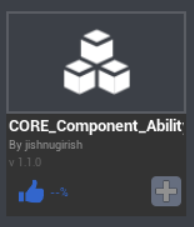
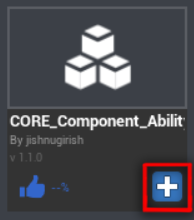
Changed Ability Tutorial from Sprint to Dodge Roll
Finished updating the ability tutorial, and changed it completely from making a sprint ability to making a dodge roll ability. Now there are far fewer steps, and hardly any complexity. A more advanced ability tutorial could be made that uses different actions in each phase. Moved around the section on Ability Objects, and might integrate a second half of the tutorial that teaches how to make the  same ability using an Ability Object instead.

Former-commit-id: 4279c567804b7574d35f342164048ed6424b127e

diff --git a/docs/tutorials/gameplay/abilities.md b/docs/tutorials/gameplay/abilities.md
@@ -9,7 +9,7 @@ An ability could be to sprint, a dance emote, the opening of a hidden menu; an a
 !!! info
     Comparing with Unreal and other game engines, an ability is basically a fancier keyboard input. "Fancier" because it has events built-in that can be set at each phase of execution.
 
-*Need a photo here*
+![Dodge Roll](/src/img/EditorManual/Abilities/dodgeRoll.GIF)
 
 ### The 4 Phases of an Ability
 
@@ -38,11 +38,11 @@ The 4 different phases of an ability are:
     Recovery: Out of breath from the power, the witch lowers her arm.  
     Cooldown: The witch waits for her magic powers to return to her.  
 
-Once an ability is triggered to start, it cycles through Cast > Execute > Recovery > Cooldown. The amount of time that each phase lasts can be set in the code. These timings would be very different depending on the type of ability being created.
+Once an ability is triggered to start, it cycles through **Cast** > **Execute** > **Recovery** > **Cooldown**. The amount of time that each phase lasts can be set in the code. These timings would be very different depending on the type of ability being created.
 
-![Gabe's Graphic](/src/img/EditorManual/Abilities/Ability States.png)
+![Ability States](/src/img/EditorManual/Abilities/Ability States.png)
 
-To tie functionality to the different phases of an ability, Core uses Events. Each phase has an event that is activated at the very beginning of that phase. 
+To tie functionality to the different phases of an ability, Core uses **Events**. Each phase has an event that is activated at the very beginning of that phase. 
 
 A created function can be connected to these events, using `:Connect(ability_name)` within a script.
 
@@ -51,44 +51,36 @@ Connecting functions to events in an ability is the main task to be done when cr
 !!! info "Customize Your Ability"
     A magical spell might have a long cast time, whereas a punch would have a very short if not instant cast time.
 
-
-### The Ability Object
-
-There are all sorts of fun settings for you to customize in an ability. While some of this is handled in code, many of the options--also known as parameters--can be changed from within one object that is kept in your project hierarchy.
-
-This can basically be thought of as a data structure, and generally a way to keep track of how the ability works. It contains all the main parameters that you might use for an ability, enabling you to make fast changes to how your ability works without having to open the scripts to go through code and change variables.
-
-To create an Ability object, navigate to the menu tab Object and select Create Ability.
-
-This spawns a single ability object in your project Hierarchy. On its own, it doesn't do anything--but that leads us into the tutorial!
-
-
 ## Tutorial
 
 Adding an ability to a game does take a little bit of coding. It's easier than you might think!
 
-While most all of the coding is already done for you to cause an ability to happen, this code needs to be copied into your project so that you can make whatever custom changes you would like!
+While most all of the coding is already done for you to cause an ability to happen, this code needs to be copied into your project so that you can make whatever custom changes you would like.
 
-In this tutorial, we will be making a simple sprint ability that will use all 4 phases, but is very quick to create.
+In this tutorial, we are going to make a super simple dodge roll!
 
 ### Generating the Script
 
 1. With Core open to a project, click on View > Script Generator in the top menu bar to open the **Script Generator**.
 
-2. The default selected should already be Ability, but if it is not, select Ability from the drop-down menu on the top right. You should see this fancy window:  
+2. The default selected script type should already be Ability, but if it is not, select Ability from the drop-down menu on the top left. You should see this fancy window:  
  ![Script Generator](/src/img/EditorManual/Abilities/scriptGenerator.PNG)
 
 3. We’re going to change some of the options at the top of this window.
-    1. Change the **Ability Name** in the first box to ‘Sprint’. Notice how all the code in the window updates to say ‘Sprint’ instead of ‘MyAbility’.
+    1. Change the **Ability Name** in the first box to ‘Dodge’. Notice how all the code in the window updates to say ‘Dodge’ instead of ‘MyAbility’.
 
     2. The **Input Binding** is which button this ability is tied to. This works on both keyboards and game controllers! In this case, change the drop-down menu to "`ability_feet`".  
      For keyboards, this is the **shift** key.
 
-    3. When making a simple running sprint, we don’t need to change the animation, but an animation can be chosen to play when an ability is executed.
+    3. There is an animation already built-in for the player to dodge roll. Set the **Anim Names** drop-down menu to "`unarmed_roll`"
 
-    4. We’re going to make a fancy sprint that uses all 4 phases, but we still won’t need **On Interrupted** or **On Ready** for this case. Uncheck those boxes.  
+    4. Since we're making a simple dodge roll ability, we won’t need **On Interrupted** or **On Ready** for this case. Uncheck those boxes.  
 
-         On Interrupted determines what happens when an ability is interupted by something in-game, and On Ready determines what happens when the ability finishes the cooldown phase and is ready to be activated again.
+         On Interrupted determines what happens when an ability is interupted by something in-game, and On Ready determines what happens when the ability finishes the cooldown phase and is ready to be activated again.  
+
+         **Your Script generator should now look like this:**
+
+         ![Script Generator Set-UP](/src/img/EditorManual/Abilities/scriptGeneratorCorrect.PNG)
 
 4. Click the button **Create New Script** to create a new script with all of this code. Name the script `AbilityScript`.
 
@@ -97,15 +89,9 @@ In this tutorial, we will be making a simple sprint ability that will use all 4 
 
 ### Customizing the Code
 
-1. Now we make our changes, but first is removing unneeded parts!
+1. Now we make our changes, but first is **removing unneeded parts**!
 
-    1. Since we aren’t using an animation, the first thing we want to change is to remove the line that says ‘`ability.animation = “1hand_melee_slash_left”`’.
-
-
-    2. To allow the player to always sprint when they activate this ability, we must change `ability.canBePrevented` to false.
-
-
-    3. Towards the bottom, within `OnExecute_Sprint(ability)`, remove all these lines relating to `target_data`, as we won’t need this for sprinting:  
+    2. Towards the bottom, within `OnExecute_Dodge(ability)`, remove all these lines relating to `target_data`, as we won’t need this for dodging:  
     ```python
     -- if requires_target_data is set on phase, can access target_data 
 	-- for properties in target_data, see comment block below
@@ -113,68 +99,71 @@ In this tutorial, we will be making a simple sprint ability that will use all 4 
     ```  
      This is how to access the hit or contacted object when creating an ability that affects the world or other players.
 
+    3. To allow the player to always be able to dodge roll when they activate this ability, we must change `ability.canBePrevented` to false.
 
-2. Now we have removed unnecessary parts of the code, and we need to change what happens in the functions at the bottom. These are what happens in each phase.
+    4. Since the dodge roll animation itself handles all movement, we don't need any code happening in the `OnCast_Dodge(ability)`, `OnExecute_Dodge(ability)`, `OnRecovery_Dodge(ability)`, or `OnCooldown_Dodge(ability)` functions.  
 
-    1. Add the line ‘`ability.owner.walkSpeed = .5`’ to the OnCast_Sprint function. This will lower the speed of the player in the time before they start sprinting, to simulate building up energy.
+        You can remove all print statements from within these functions, or comment them out using `--`. Leaving these in can be helpful for seeing on-screen which phase you are in while the ability is active.
 
-    2. Add the line ‘`ability.owner.walkSpeed = 4`’ to the OnExecute_Sprint function. This will speed them up massively.
-
-    3. Add the line ‘`ability.owner.walkSpeed = .5`’ to the OnRecovery_Sprint function. This simulates the player “catching their breath” after the run.
-
-    4. Add the line ‘`ability.owner.walkSpeed = 1`’ to the OnCooldown_Sprint function to reset player speed back to normal.
-
-    5. The functions for each phase come with a `print_to_screen` line for game testing and debugging purposes, and they can be useful to tell which ability phase is happening at that moment, but feel free to remove them!
-
-3. To change how long each phase lasts, change the durations to this:  
+2. To **change how long each phase lasts**, change the durations to this:  
 ```
-ability.castPhaseSettings.duration = .7
-ability.executePhaseSettings.duration = 3
-ability.recoveryPhaseSettings.duration = 1
-ability.cooldownPhaseSettings.duration = 2
+ability.castPhaseSettings.duration = .1
+ability.executePhaseSettings.duration = 1
+ability.recoveryPhaseSettings.duration = .1
+ability.cooldownPhaseSettings.duration = 3
 ```
 
-4. We have nearly everything set up now--the only thing left is to actually assign the ability to a player.  
- There are many ways to do this (granting a new ability when an item is picked up) but in this case, we are going to give the player the ability as soon as the game starts so that they always have it.  
-  Beneath all code in this ability script so far, add this line:  
- `game.playerJoinedEvent:Connect(CreateAndGiveToPlayer_Sprint)`  
-  This will connect the function that we made to the moment when a player joins the game, giving them the ability to sprint!
+3. We have nearly everything set up now--the only thing left is to actually **assign the ability to a player**.  
 
-5. Make sure this new script is dragged into the Hierarchy, and hit play! Test out that crazy running speed.  
+    There are many ways to do this *(such as granting a new ability when an item is picked up)* but in this case, we are going to give the player the ability as soon as the game starts so that they always have it.  
+
+    Beneath all code in this ability script so far, add this line:  
+
+    `game.playerJoinedEvent:Connect(CreateAndGiveToPlayer_Dodge)`  
+
+    This will connect the function that we made to the moment when a player joins the game, giving them the ability to dodge roll!
+
+4. Make sure this **new script is dragged into the Hierarchy**, and hit play! Test out that mad rollin' action.  
  Remember that the **shift** key is what activates this ability since it uses the `ability_feet` input binding.
 
-This works great, but using print statements to tell which phase is active isn’t helpful. Luckily there is a UI element built exactly for abilities!
+This works great, but using print statements to tell which phase is active isn’t great game design. Luckily there is a UI element we can use built exactly for abilities!
 
-### UI Ability Control
+### CORE Component: Ability Display
 
 A crucial part of a video game is the feedback it gives--players need to know that they're using an ability.
 
-While you can make a User Interface element yourself, there is a pre-made template on Community Content that we can use to very quickly set up simple UI for our new ability!
+While you can make a User Interface *(often abbreviated to UI)* element yourself, there is a pre-made template on Community Content that we can use to very quickly set up simple UI for our new ability!
 
 When the ability is in the Cooldown phase, it will darken the ability button and show the seconds remaining until the ability is usable again.
 
-![Ability Control](/src/img/EditorManual/Abilities/Sprint_NotActivated.PNG) ![Ability Control](/src/img/EditorManual/Abilities/Sprint_Activated.PNG)
+![Ability Display](/src/img/EditorManual/Abilities/abilityDisplay.GIF)
 
 To get this to work correctly with the ability we made above, there are only a few steps steps:
 
-1. In Community Content, search for the **CORE_Component_AbilityDisplay** template by jishnugirish, and add this to your project by clicking the plus icon.  
+1. In Community Content, search for the **CORE_Component_AbilityDisplay** template by jishnugirish, and add this to your project by clicking the blue plus icon.  
   ![Ability Control](/src/img/EditorManual/Abilities/CORE_Component_Ability.PNG)
 
-2. Navigate through your **Project Content** to the **Imported Content** section, and drag the **white** component called **CORE_Component_AbilityBindingDisplay** into your Hierarchy.  
+2. Navigate through your **Project Content** to the **Imported Content** section, and drag the **green** component called **CORE_Component_AbilityBindingDisplay** into your Hierarchy.  
 
 3. If you now click this template from in the hierarchy, the **Properties** tab will show a few custom properties that we need to change to set up the ability display.
   ![Ability Control](/src/img/EditorManual/Abilities/AbilityButtonProperties.PNG)  
-  Change the **Binding** property from ability_primary to ability_feet. We're also going to change the **Text** field to LS, to stand for Left Shift. I will also uncheck the **HideName** property, so that "Sprint" will display over the button.  
+      1. Change the **Binding** property from `ability_primary` to `ability_feet`. 
 
-     What is really the key here is the Binding property--this connects whatever ability is currently bound to that binding to the Ability Display.
+      2. Change the **Text** field to `LS`, to stand for Left Shift. 
 
-4. To change the icon that displays from a fork & knife to something more relevant for our ability, navigate through the AbilityBindingDisplay folders in the Hierarchy to the two Icon objects. Change the **Image** property on these to whatever you would like!  
+      3. Uncheck the **HideName** property, so that "Dodge" will display over the button.  
+
+      What is really the key here is the Binding property--this connects whatever ability is currently bound to that binding to the Ability Display.
+
+4. To **change the icon that displays** from a fork & knife to something more relevant for our ability, navigate through the AbilityBindingDisplay folders in the Hierarchy to the two Icon objects. Change the **Image** property on these to whatever you would like!  
  ![Hierarchy](/src/img/EditorManual/Abilities/ComponentHierarchy.PNG)  
      I chose the **Icon Stamina** for this case. 
 
-*Now the UI element will update automatically once the ability is cast!*
+Now the UI element will update automatically once the ability is cast.
 
-### Networking
+Congrats on creating your first ability! You are well on your way to making anything you can imagine a reality.
+
+### Networking for Multiplayer Games
 
 Abilities themselves work in multiplayer games perfectly without any extra programming effort. If you made your own ablity UI icon and did not use the Community Content template above, the UI will not update properly in multiplayer games. For the UI to update as the ability happens, the UI relating to the player's abilities must be placed in a Client Context folder. 
 
@@ -183,6 +172,19 @@ This has already been done for us in the Community Content template, so no actio
 !!! info "Client Context"
     Generally speaking, all UI related to the player should be in a Client Context folder. For more info on how networking works, visit the [related Networking page].
 
+## Altering Properties the Easy Way: The Ability Object
+
+As you may have noticed while doing the tutorial, there are all sorts of fun settings for you to customize in an ability. While some of this is handled in code, many of the options--also known as properties or parameters--can be changed from within one object that is kept in your project hierarchy.
+
+This way you won't have to open a script to edit how your ability works!
+
+An Ability Object can basically be thought of as a data structure, and in general is a way to keep track of how the ability works. It contains all the main parameters that you use for an ability, enabling you to make fast changes to how your ability works without having to open the scripts to go through code and change variables.
+
+To create an Ability object, navigate to the menu tab Object and select Create Ability.
+
+This spawns a single ability object in your project Hierarchy. On its own, it doesn't do anything--but that leads us into the next step of the tutorial!
+
 ## Examples
 
-*FAA_GameMode* includes functioning abilities. 
+*FAA_GameMode* includes functioning abilities.  
+*Spellshock* includes advanced abilities using ability objects. 
